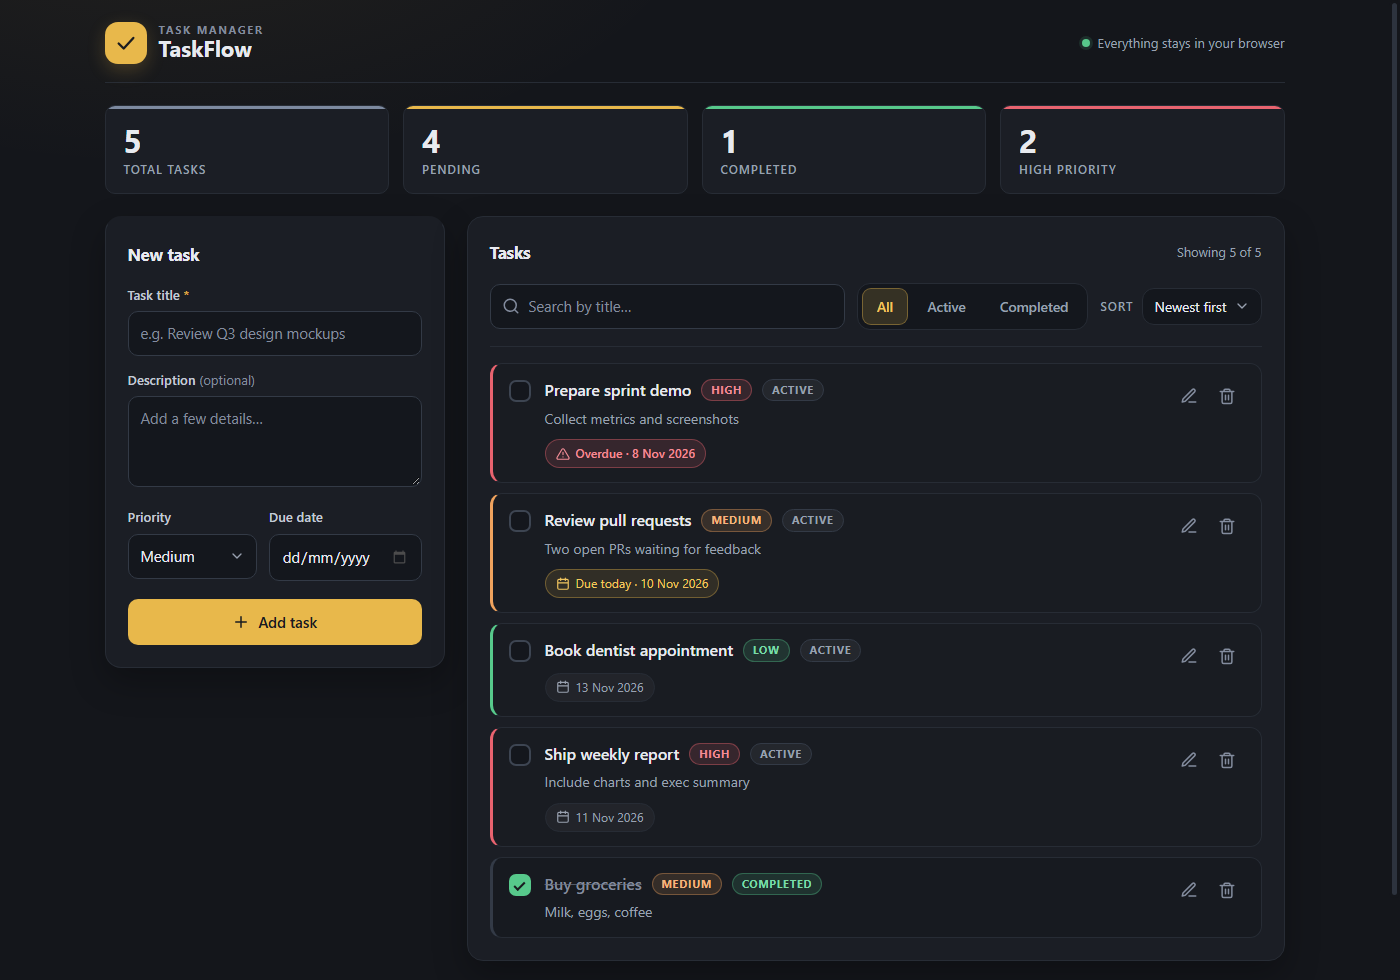
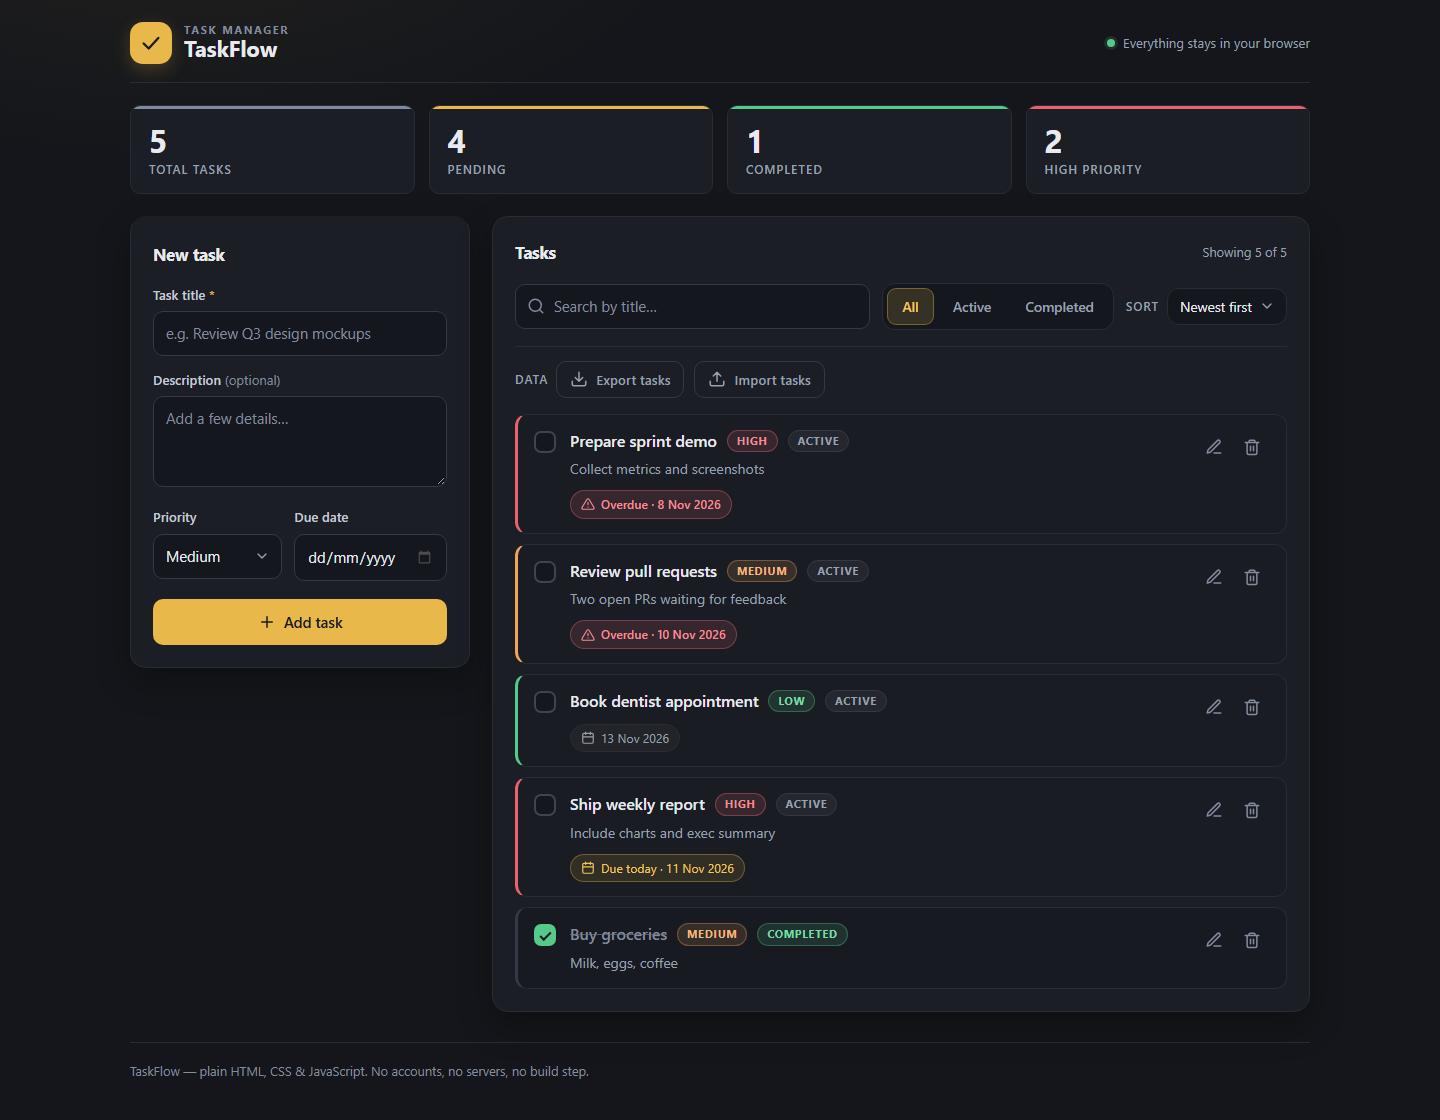
docs: finalize TaskFlow project release

diff --git a/README.md b/README.md
@@ -2,7 +2,7 @@
 
 A polished, local-first task manager built with **plain HTML, CSS and vanilla JavaScript** — no frameworks, no build step, no servers. Dark charcoal interface with a warm gold accent, designed to stay out of your way while you capture and finish work.
 
-## Screenshot
+## Screenshots
 
 ![TaskFlow desktop view](screenshot-desktop.png)
 
@@ -14,6 +14,7 @@ A polished, local-first task manager built with **plain HTML, CSS and vanilla Ja
 - Filter by all / active / completed, search by title, and sort by newest, oldest, A–Z, due date or priority
 - Live statistics: total, pending, completed and high priority
 - Overdue, due-today and upcoming date indicators
+- Export every task to a dated JSON file and import it back, with validation and confirmation before anything is replaced
 - Inline validation, protection against accidental double-submissions, and confirmation before deleting
 - Keyboard friendly: `Enter` submits, `Esc` cancels an edit or clears the search, `/` jumps to search
 - Responsive from desktop down to 390px, with visible focus states and screen-reader announcements
@@ -33,9 +34,15 @@ A polished, local-first task manager built with **plain HTML, CSS and vanilla Ja
 todo-list-app/
 ├── index.html             # App markup
 ├── style.css              # Design tokens, components, responsive rules
-├── script.js              # UI logic: rendering, events, storage
-├── taskflow-core.js       # Pure task logic, shared with the tests
+├── script.js              # UI logic: rendering, events, storage, import/export
+├── taskflow-core.js       # Pure task logic and file format, shared with the tests
 ├── tests/                 # Automated tests (run with: node --test)
+│   ├── tasks.test.js        # Creation, validation, editing, deletion
+│   ├── storage.test.js      # LocalStorage round-trips and repair
+│   ├── visibility.test.js   # Filtering, search, statistics, due dates
+│   ├── sorting.test.js      # Sort keys and stable ordering
+│   ├── importexport.test.js # Export format, import validation, merging
+│   └── edgecases.test.js    # Review regressions: id safety, character caps
 ├── screenshot-desktop.png
 ├── screenshot-mobile.png
 ├── README.md
@@ -51,6 +58,16 @@ No build step and no dependencies.
 
 That's it. Alternatively, serve the folder with any static file server.
 
+## Tests
+
+The suite runs on Node's built-in test runner — nothing to install:
+
+```bash
+node --test
+```
+
+It covers task creation and validation, editing, deletion, completion, filtering, search, sorting, statistics, due dates, LocalStorage repair, the export/import format and the edge cases found during the final review. Requires Node.js 18 or newer.
+
 ## LocalStorage
 
 - Tasks are stored in your browser under the `taskflow.tasks` key and saved immediately after every change
@@ -58,10 +75,18 @@ That's it. Alternatively, serve the folder with any static file server.
 - Clearing your browser's site data for this page removes the tasks
 - Missing, invalid or corrupted stored data is detected on load and the app starts fresh instead of crashing
 
-## Author
+## Export & import
 
-**Pratham Sinha**
+- **Export tasks** downloads every task as `taskflow-tasks-YYYY-MM-DD.json` — ids, titles, descriptions, priority, due dates, completion state and an export timestamp. Exporting an empty list is fine.
+- **Import tasks** accepts a TaskFlow export or a plain JSON array of task objects, validates the structure and every field, and rejects malformed files with a clear message instead of touching your data.
+- Invalid ids and duplicate ids inside a file are rejected, and tasks you already have are never overwritten unless you confirm the replacement.
+- New tasks are added on top of your list, LocalStorage is updated immediately and the view is refreshed.
+- Files larger than 1 MB are refused, so a stray file cannot stall the tab.
 
 ## GitHub repository
 
 [github.com/PrathamSinha07/TaskFlow](https://github.com/PrathamSinha07/TaskFlow)
+
+## Author
+
+**Pratham Sinha**
